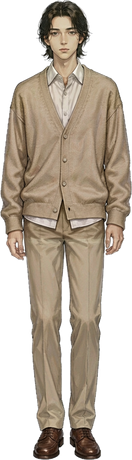
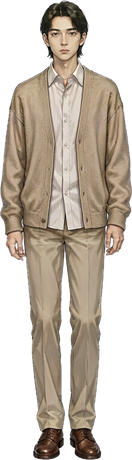
fix: 林知夏左右走会先正面再侧面、开衫开合不一
两个问题：

1) 上一轮改头发时，侧面迈步帧（lin_walk1）被模型转成了正面朝向，
   与侧面并腿帧交替播放，看起来就是"先面向前面、再面向右边"。
   实测渲染侧 facing 恒为 right，问题在贴图本身朝向不对。

2) 正面站姿与 B 帧的开衫是扣上的，A 帧是敞开的，切换时像换了件衣服。

按用户要求统一为"开衫敞开、白衬衫解开领口"：
- 以原始侧面迈步图重新生成，prompt 写死"纯侧身、只看到一侧肩膀与侧脸"
- 正面站姿 / 侧面站姿 / 正面 B / 侧面 B 用大字描述重画（头发必须短发到颈部、
  别耳后、露耳；开衫一粒扣都不扣），避免模型把头发又拉长
- 五张统一 matte.prepare 到 460 高，并用迭代收敛的方式把躯干中位色压到
  (171,145,119)（正面 166,143,115 与侧面 177,148,123 的中值）

背面三帧未改动：从背后看不到开衫开合，且原本发型一致。

图片版本串 ?v=10 → ?v=11

diff --git a/campus-life/web/bundle.js b/campus-life/web/bundle.js
@@ -2095,7 +2095,7 @@ function walkTexture(id, n, view) {
   // 侧面沿用旧命名；正面 / 背面加 f / b 后缀，各自是独立素材
   const tail = v === 'front' ? '_walk_f' + n : v === 'back' ? '_walk_b' + n : '_walk' + n;
   // 换图后必须带版本串：预览面板会按 URL 缓存旧图，导致「站着是新形象、一走还是旧图」
-  img.src = STANDEE_SRC + id + tail + '.png?v=10';
+  img.src = STANDEE_SRC + id + tail + '.png?v=11';
   return null;
 }
 

diff --git a/campus-life/miniprogram/engine/renderer.js b/campus-life/miniprogram/engine/renderer.js
@@ -183,7 +183,7 @@ function walkTexture(id, n, view) {
   // 侧面沿用旧命名；正面 / 背面加 f / b 后缀，各自是独立素材
   const tail = v === 'front' ? '_walk_f' + n : v === 'back' ? '_walk_b' + n : '_walk' + n;
   // 换图后必须带版本串：预览面板会按 URL 缓存旧图，导致「站着是新形象、一走还是旧图」
-  img.src = STANDEE_SRC + id + tail + '.png?v=10';
+  img.src = STANDEE_SRC + id + tail + '.png?v=11';
   return null;
 }
 
